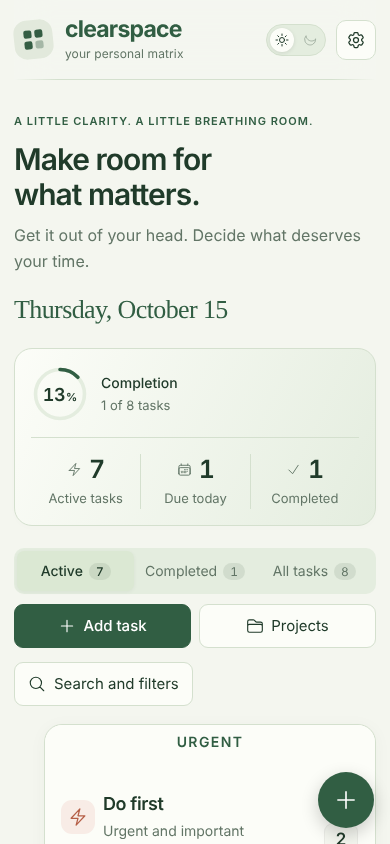
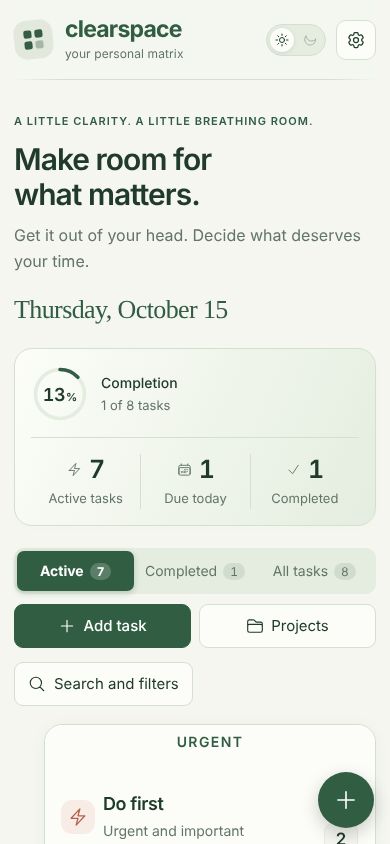
Make the active tab solid, drop quadrant add links, fix Reset board hover and close Dev dialog after removing samples
Claude-Session: https://claude.ai/code/session_01Nq72dWvELE8WWzs1VCTzCt

Changed region(s): [[0.0308, 0.6469, 0.3692, 0.7085]]

diff --git a/e2e/ux.spec.ts b/e2e/ux.spec.ts
@@ -1,6 +1,6 @@
 /* UX pass: one-click add, tab counts, filter summary, first-task prompt, date chips, backup state. */
 import { test, expect } from '@playwright/test';
-import { open, seedMatrix, editorDialog, storedMatrix, openFilters, quadrant } from './helpers';
+import { open, seedMatrix, editorDialog, storedMatrix, openFilters } from './helpers';
 
 test('Add task opens the editor in one click and Projects opens the projects dialog', async ({
   page,
@@ -17,6 +17,20 @@ test('Add task opens the editor in one click and Projects opens the projects dia
 test('status tabs show how many tasks each holds', async ({ page }) => {
   await open(page, { matrix: seedMatrix });
   await expect(page.locator('.tabs .tab-count')).toHaveText(['7', '1', '8']);
+});
+
+test('the active status tab is a solid highlighted pill', async ({ page }) => {
+  await open(page, { matrix: seedMatrix });
+  const active = page.locator('.tabs button.active');
+  await expect(active).toContainText('Active');
+  await expect(active.locator('.tab-indicator')).toHaveCSS('background-color', 'rgb(49, 94, 67)');
+  await expect(active).toHaveCSS('color', 'rgb(255, 255, 255)');
+  await page.getByRole('button', { name: 'Completed', exact: true }).click();
+  await expect(page.locator('.tabs button.active')).toContainText('Completed');
+  await expect(page.getByRole('button', { name: 'Active', exact: true })).not.toHaveCSS(
+    'color',
+    'rgb(255, 255, 255)',
+  );
 });
 
 test('filtering shows a result count and Clear filters resets it', async ({ page }) => {
@@ -38,18 +52,6 @@ test('an empty board offers a first task and examples, and hides the zero stats'
   await page.getByRole('button', { name: 'Try example tasks' }).click();
   await expect(page.locator('.task')).toHaveCount(4);
   await expect(page.getByRole('region', { name: 'Task overview' })).toBeVisible();
-});
-
-test('the empty quadrant text adds a task to that quadrant', async ({ page }) => {
-  await open(page, { matrix: { tasks: [], projects: [] } });
-  await quadrant(page, 'Schedule')
-    .getByRole('button', { name: /Add a task/ })
-    .first()
-    .click();
-  await editorDialog(page).getByRole('combobox', { name: 'Where does it belong?' }).waitFor();
-  await expect(
-    editorDialog(page).getByRole('combobox', { name: 'Where does it belong?' }),
-  ).toContainText('Schedule');
 });
 
 test('date chips fill the due date', async ({ page }) => {

diff --git a/src/styles.css b/src/styles.css
@@ -2136,8 +2136,8 @@ div.field {
   position: absolute;
   inset: 0;
   z-index: -1;
-  background: var(--selected);
-  box-shadow: 0 1px 4px #10281d0d;
+  background: var(--green);
+  box-shadow: 0 2px 6px #10281d33;
 }
 .tab-label {
   position: relative;
@@ -2480,25 +2480,6 @@ button,
   flex-wrap: wrap;
   gap: 8px;
 }
-.empty-add {
-  display: grid;
-  gap: 2px;
-  border: 0;
-  background: transparent;
-  color: var(--muted);
-  font: inherit;
-  font-size: calc(0.875rem * var(--text-scale, 1));
-  line-height: 1.5;
-  cursor: pointer;
-  padding: 4px 8px;
-  border-radius: 10px;
-}
-.empty-add span {
-  color: var(--accent-ink);
-  font-weight: 600;
-  text-decoration: underline;
-  text-underline-offset: 3px;
-}
 .overdue {
   font-weight: 650;
 }
@@ -2649,4 +2630,29 @@ button,
   footer {
     padding-bottom: calc(92px + env(safe-area-inset-bottom, 0px));
   }
+}
+
+/* The active status tab is a solid, high-contrast pill so the current view is obvious. */
+.tabs .active,
+.tabs .active .tab-label {
+  color: #fff;
+  font-weight: 650;
+}
+.tabs .active .tab-count {
+  background: #ffffff33;
+  color: #fff;
+}
+
+/* Keep the destructive confirm readable on hover: the generic .btn hover would turn it pale. */
+.btn.reset-confirm:hover,
+.btn.reset-confirm:focus-visible {
+  background: #8f2c25;
+  border-color: #8f2c25;
+  color: #fff;
+}
+.night .btn.reset-confirm:hover,
+.night .btn.reset-confirm:focus-visible {
+  background: #a84a3f;
+  border-color: #a84a3f;
+  color: #fff;
 }

diff --git a/src/features/tasks/MatrixBoard.tsx b/src/features/tasks/MatrixBoard.tsx
@@ -202,20 +202,15 @@ export function MatrixBoard({
                         transition={{ duration: instant ? 0 : 0.16, ease: softEase }}
                       >
                         <EmptyIllustration q={q.id} />
-                        {filtered || filters.status === 'done' || hasTasks(q.id) ? (
-                          <strong>
-                            {filtered
-                              ? 'No matching tasks.'
-                              : filters.status === 'done'
-                                ? 'Nothing completed here yet.'
-                                : 'All clear here.'}
-                          </strong>
-                        ) : (
-                          <button type="button" className="empty-add" onClick={() => onAdd(q.id)}>
-                            {q.empty}
-                            <span>Add a task</span>
-                          </button>
-                        )}
+                        <strong>
+                          {filtered
+                            ? 'No matching tasks.'
+                            : filters.status === 'done'
+                              ? 'Nothing completed here yet.'
+                              : filters.status === 'active' && hasTasks(q.id)
+                                ? 'All clear here.'
+                                : q.empty}
+                        </strong>
                       </motion.div>
                     )}
                   </TaskPresence>

diff --git a/src/features/dev/DevTools.test.tsx b/src/features/dev/DevTools.test.tsx
@@ -1,0 +1,15 @@
+import { fireEvent, render, screen, waitFor } from '@testing-library/react';
+import { expect, test, vi } from 'vitest';
+import DevTools from './DevTools';
+import type { Matrix } from '../../domain/models';
+import { createSamples } from './samples';
+
+test('Remove Dev samples removes them and closes the dialog', async () => {
+  const matrix: Matrix = createSamples('2026-10-15');
+  const change = vi.fn();
+  render(<DevTools matrix={matrix} change={change} notify={vi.fn()} />);
+  fireEvent.click(screen.getByRole('button', { name: 'Dev' }));
+  fireEvent.click(screen.getByRole('button', { name: 'Remove Dev samples' }));
+  expect(change).toHaveBeenCalledWith(expect.any(Function), 'Dev sample tasks removed.');
+  await waitFor(() => expect(screen.queryByRole('dialog')).not.toBeInTheDocument());
+});

diff --git a/e2e/settings.spec.ts b/e2e/settings.spec.ts
@@ -223,3 +223,14 @@ test('toast auto-dismisses and can be dismissed manually', async ({ page }) => {
   await toast(page).getByRole('button', { name: 'Dismiss notification' }).click();
   await expect(toast(page)).toHaveCount(0);
 });
+
+test('Reset board confirm stays readable on hover', async ({ page, isMobile }) => {
+  test.skip(!!isMobile, 'Hover needs a pointer');
+  await open(page, { matrix: seedMatrix });
+  await openSettings(page);
+  await page.getByRole('button', { name: 'Reset board' }).click();
+  const confirm = page.getByRole('dialog').getByRole('button', { name: 'Reset board' });
+  await confirm.hover();
+  await expect(confirm).toHaveCSS('color', 'rgb(255, 255, 255)');
+  await expect(confirm).toHaveCSS('background-color', 'rgb(143, 44, 37)');
+});

diff --git a/src/features/dev/DevTools.tsx b/src/features/dev/DevTools.tsx
@@ -42,15 +42,16 @@ export default function DevTools({ matrix, change, notify }: Props) {
             <button
               className="btn"
               disabled={!matrix.tasks.some((task) => task.isDevSample)}
-              onClick={() =>
+              onClick={() => {
                 change(
                   (current) => ({
                     ...current,
                     tasks: current.tasks.filter((task) => !task.isDevSample),
                   }),
                   'Dev sample tasks removed.',
-                )
-              }
+                );
+                setOpen(false);
+              }}
             >
               Remove Dev samples
             </button>
